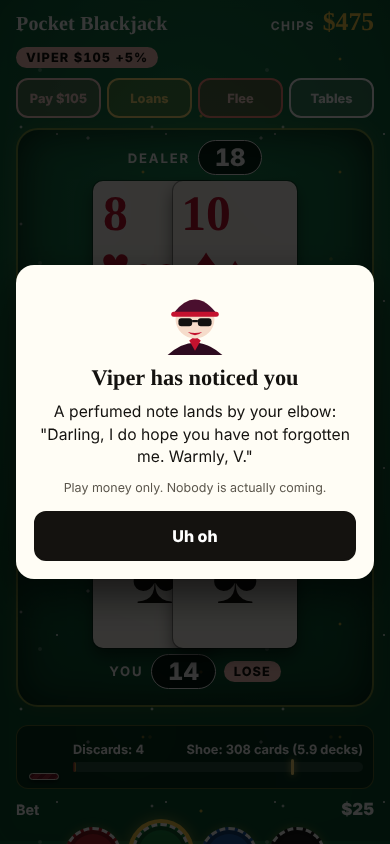
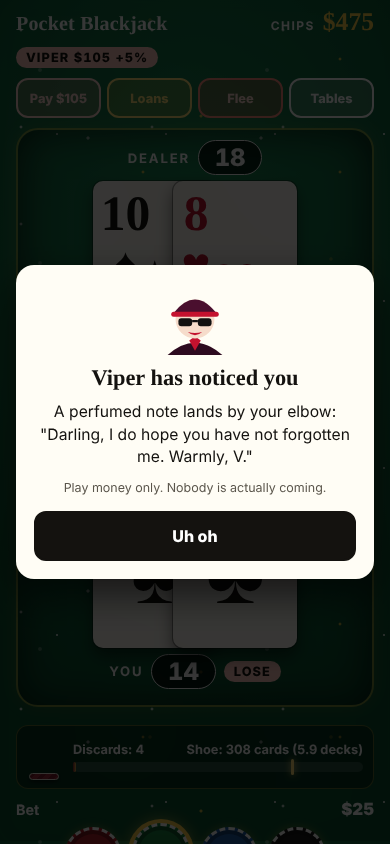
Table skins and Home Screen app meta tags
Claude-Session: https://claude.ai/code/session_01TBic4fJHueRrgbEwivbnJZ

diff --git a/blackjack.html b/blackjack.html
@@ -5,6 +5,9 @@
 <meta name="viewport" content="width=device-width, initial-scale=1, viewport-fit=cover">
 <meta name="apple-mobile-web-app-capable" content="yes">
 <meta name="mobile-web-app-capable" content="yes">
+<meta name="apple-mobile-web-app-status-bar-style" content="black-translucent">
+<meta name="apple-mobile-web-app-title" content="Blackjack">
+<meta name="theme-color" id="themeColor" content="#0a5230">
 <title>Pocket Blackjack</title>
 <meta name="claude:viewport-fit-sides" content="cover">
 
@@ -12,6 +15,9 @@
 
 <style>
 [hidden]{display:none!important}
+:root[data-skin="midnight"] { --felt: #0b1530; --felt-hi: #22407a; }
+:root[data-skin="neon"] { --felt: #160a2e; --felt-hi: #6a1fa8; --brass: #3dffe0; }
+:root[data-skin="wine"] { --felt: #3a0a16; --felt-hi: #8a1f3c; }
 :root {
   /* Layout: one-screen felt table. Dealer hand on top, status band in the middle, your hand(s) below, controls pinned to the bottom. */
   --felt: #0a5230;
@@ -509,10 +515,11 @@ body::before { filter: brightness(var(--dimf, 1)); }
         <p><b>Insurance</b> is offered when the dealer shows an Ace. It costs half your bet and pays 2:1.</p>
       </details>
       <details class="pay" id="optsBox">
-        <summary>Coach and dust</summary>
+        <summary>Coach, dust and table</summary>
         <div class="optrow">
           <button class="sharkbtn" id="coachBtn" type="button" aria-pressed="false">Coach: off</button>
           <button class="sharkbtn" id="dustBtn" type="button" aria-pressed="true">Dust: on</button>
+          <button class="sharkbtn" id="skinBtn" type="button">Table: Green</button>
         </div>
         <p>Coach shows the true count, whether to bet heavy or light, the best play and insurance advice. Dust makes the room glitter gold when the count is high and turn blue when it is low.</p>
       </details>
@@ -570,6 +577,14 @@ body::before { filter: brightness(var(--dimf, 1)); }
   var coachOn = false, showHole = false, flashHole = false, statTaps = 0, statTimer = null;
   var ST = { hands: 0, won: 0, lost: 0, pushed: 0, bj: 0, busts: 0, bigWin: 0, bigLoss: 0, bestStreak: 0, curW: 0, curL: 0, shoes: 0, spotted: 0, dec: 0, decOk: 0, rounds: 0 };
   try { var sst = JSON.parse(localStorage.getItem('pocket-bj-stats')); if (sst) for (var kk in sst) if (kk in ST) ST[kk] = sst[kk]; coachOn = localStorage.getItem('pocket-bj-coach') === '1'; betTools = localStorage.getItem('pocket-bj-bettools') === '1'; dustOn = localStorage.getItem('pocket-bj-dust') !== '0'; var sty = JSON.parse(localStorage.getItem('pocket-bj-story')); if (sty) STORY = sty; var dly = JSON.parse(localStorage.getItem('pocket-bj-daily')); if (dly) DAILY = dly; } catch (e) {}
+  var SKINS = [['green', 'Green', '#0a5230'], ['midnight', 'Midnight', '#0b1530'], ['neon', 'Neon', '#160a2e'], ['wine', 'Wine', '#3a0a16']], skin = 0;
+  try { var sk0 = localStorage.getItem('pocket-bj-skin'); SKINS.forEach(function (k, n) { if (k[0] === sk0) skin = n; }); } catch (e) {}
+  function applySkin() {
+    var k = SKINS[skin]; document.documentElement.setAttribute('data-skin', k[0]);
+    var tc = document.getElementById('themeColor'); if (tc) tc.setAttribute('content', k[2]);
+    var b = document.getElementById('skinBtn'); if (b) b.textContent = 'Table: ' + k[1];
+    try { localStorage.setItem('pocket-bj-skin', k[0]); } catch (e) {}
+  }
   function saveStats() { try { localStorage.setItem('pocket-bj-stats', JSON.stringify(ST)); localStorage.setItem('pocket-bj-coach', coachOn ? '1' : '0'); localStorage.setItem('pocket-bj-bettools', betTools ? '1' : '0'); localStorage.setItem('pocket-bj-dust', dustOn ? '1' : '0'); localStorage.setItem('pocket-bj-story', JSON.stringify(STORY)); localStorage.setItem('pocket-bj-daily', JSON.stringify(DAILY)); } catch (e) {} }
   var rc = 0, holeCounted = true, susp = 0, backoff = 0, dealTC = 0, dealBet = 0;
   var bank = START, bet = 25, pp = 0, t3 = 0, insBet = 0;
@@ -2035,6 +2050,8 @@ body::before { filter: brightness(var(--dimf, 1)); }
     render();
   }
 
+  applySkin();
+  $('skinBtn').addEventListener('click', function () { skin = (skin + 1) % SKINS.length; applySkin(); });
   $('dustBtn').addEventListener('click', function () { dustOn = !dustOn; saveStats(); updateGlow(); render(); });
   $('coachBet').addEventListener('click', function () { setBet(coachBetAdvice().amt); });
   chips.forEach(function (c) {
